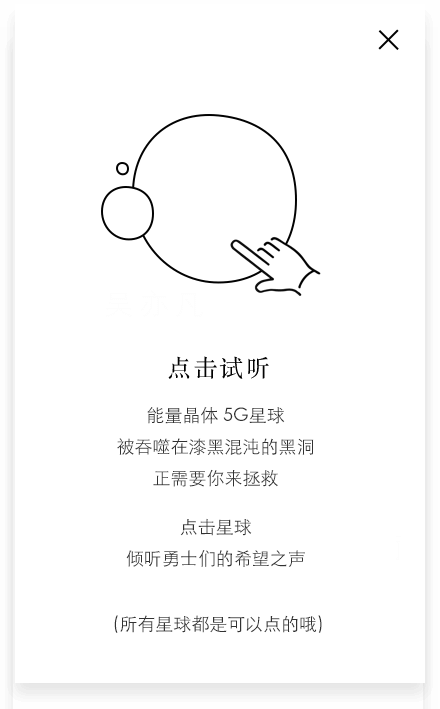
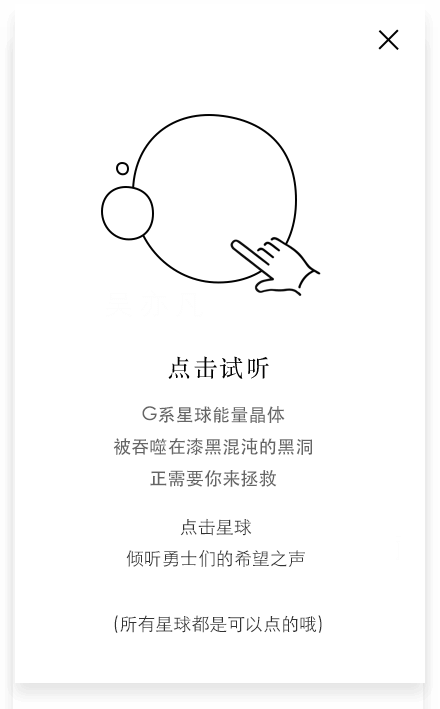
修复文字与图片

Changed region(s): [[0.2659, 0.5585, 0.7091, 0.6827]]

diff --git a/index.html b/index.html
@@ -225,14 +225,14 @@
                             <span class="line2"></span>
                             <span class="line3"></span>
                             <span class="line4"></span>
-                            <div class="bb"></div>
+                            <!-- <div class="bb"></div> -->2
                         </b>
-                        <b class="right bbleft rrleft">
+                        <b class="right bbleft">
                             <span class="line1"></span>
                             <span class="line2"></span>
                             <span class="line3"></span>
                             <span class="line4"></span>
-                            <div class="bb"></div>
+                            <!-- <div class="bb"></div> -->
                         </b>
                         <i class="left">
                             <div class="g5">
@@ -256,16 +256,16 @@
                                 在宇宙深处 <br />
                                 有一个神秘的能量晶体<br />
                                 被5大行星环绕守护 <br />
-                                他们被称作5G星球<br /> 
+                                他们被称作5系星球<br /> 
                   
                         </p>
-                        <p class="self-intro pt-page-delay4000 animated1500 flash_" style="font-size: 24px; -webkit-transform:scale(0.8); margin-top: 100px;" >
+                        <p class="self-intro pt-page-delay6000 animated1500 flash_" style="font-size: 24px; -webkit-transform:scale(0.8); margin-top: 100px;" >
                              突然有一天....                  
                         </p>
-                        <p class="self-intro  pt-page-delay6000 animated1500 flash_" style="font-size: 24px; -webkit-transform:scale(0.8);">
-                                宇宙发生爆炸 产生黑洞<br />
+                        <p class="self-intro  pt-page-delay8000 animated1500 flash_" style="font-size: 24px; -webkit-transform:scale(0.8);">
+                                宇宙发生爆炸<br />
                                 黑洞吞噬了晶体<br />
-                                勇士们需要用声音<br />
+                                需要点燃你的小宇宙<br />
                                 将它们从黑暗中唤醒<br />
                         </p>
                     </div>
@@ -1383,7 +1383,7 @@
                     <span class="miao2"></span>
                 </div>
                 <div class="pa lzgb dn">
-                    <img style="width: 172px;" src="../image/common/lzgb.png"/>
+                    <img style="width: 252px;" src="../image/common/lzgb.png"/>
                 </div>
                 <div class="swiper-container">
                     <div class="xzts pa center">

diff --git a/js/Load.js b/js/Load.js
@@ -71,13 +71,13 @@ var LoadingSwit = function(num) {
                     setTimeout(function() {
                         $(".self-intro").eq(0).hide();
                     }, 500)
-                },3200);
+                },5200);
                 setTimeout(function(i) {
                     $(".self-intro").eq(1).addClass("off");
                     setTimeout(function() {
                         $(".self-intro").eq(1).hide();
                     }, 100)
-                },5800);
+                },7800);
                 // setTimeout(function(i) {
                 //     $(".self-intro").eq(2).addClass("off");
                 //     setTimeout(function() {
